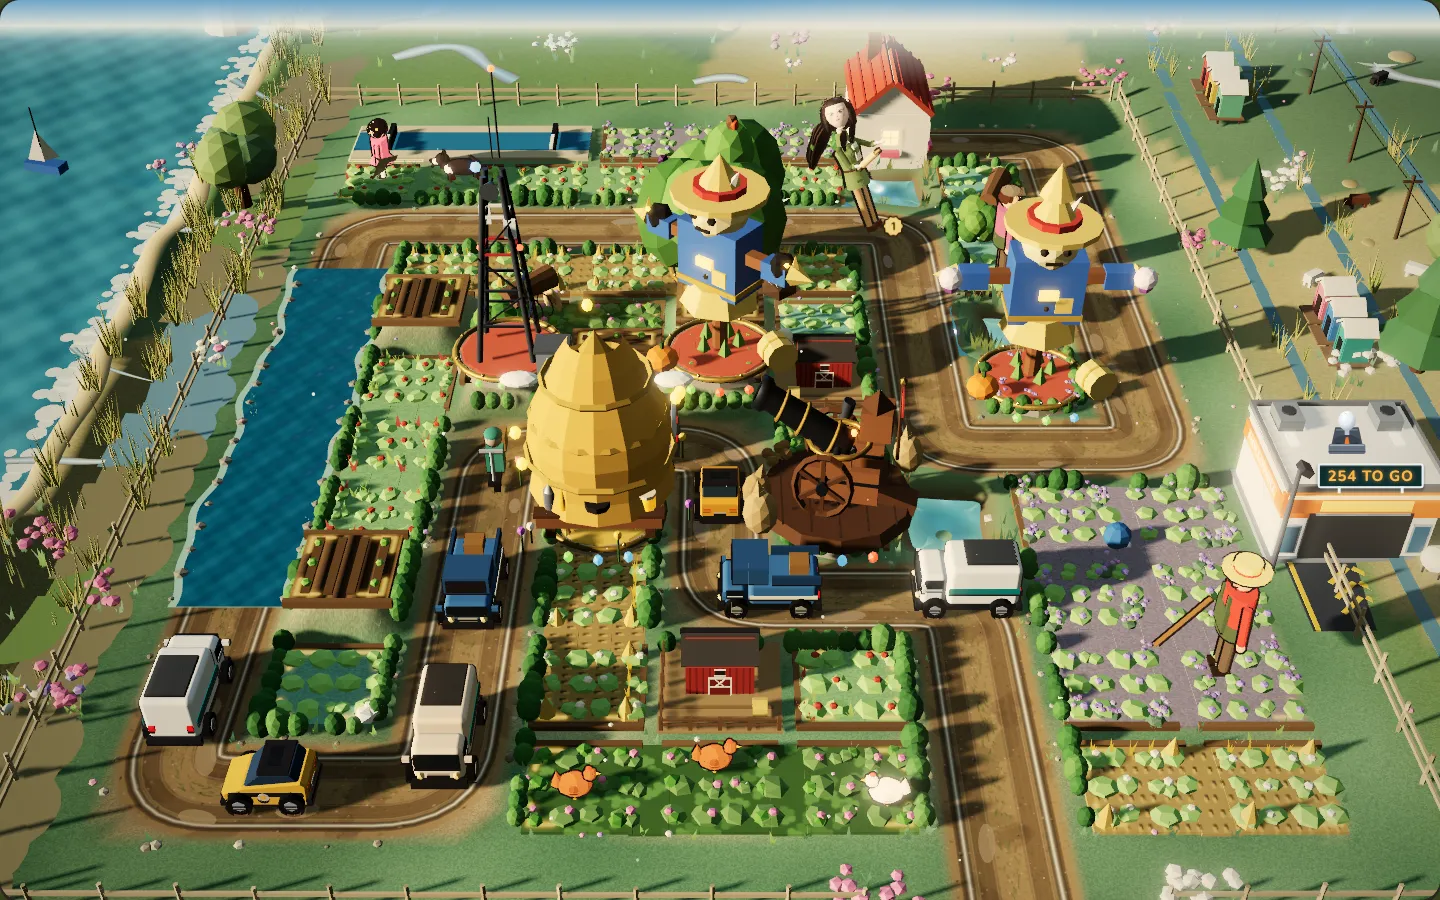
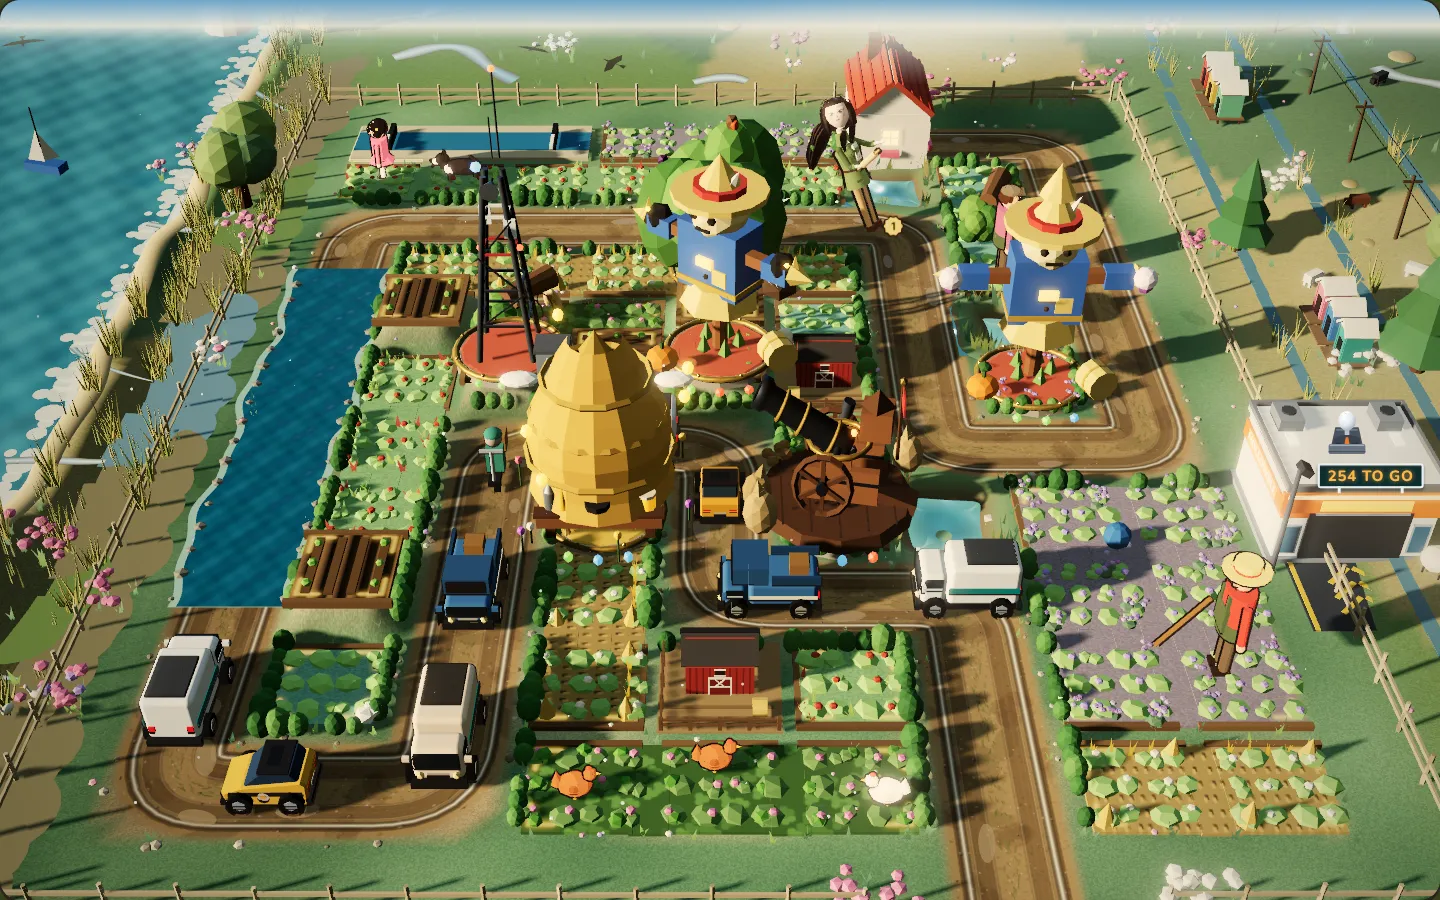
Hedgerow 2D (plan item 621 slice 4): the fleet's lacquer from above too: a pale ridge down a van's roof, the sides falling darker
Claude-Session: https://claude.ai/code/session_01SimvMRr3pxyZPGsavn32QT

diff --git a/games/hedgerow/src/sprites.ts b/games/hedgerow/src/sprites.ts
@@ -1645,6 +1645,27 @@ function vehicleTop(ctx: C, x: number, y: number, s: number, o: VehicleOpts): vo
       ctx.fill();
     }
   }
+  // Plan item 621: the lacquered roof from above: a pale ridge down the middle, the sides falling darker (symmetric,
+  // so it reads the same up or down the lane).
+  {
+    const bl = L * (cabFront ? 0.74 : 1);
+    ctx.save();
+    ctx.beginPath();
+    ctx.roundRect(x0, y0, bl, W, s * 0.06);
+    ctx.clip();
+    const g = ctx.createLinearGradient(0, y0, 0, y0 + W);
+    g.addColorStop(0, "rgba(0,0,0,0.16)");
+    g.addColorStop(0.32, "rgba(255,255,255,0.08)");
+    g.addColorStop(0.5, "rgba(255,255,255,0.3)");
+    g.addColorStop(0.68, "rgba(255,255,255,0.08)");
+    g.addColorStop(1, "rgba(0,0,0,0.16)");
+    ctx.fillStyle = g;
+    ctx.fillRect(x0, y0, bl, W);
+    ctx.restore();
+    ctx.beginPath();
+    ctx.roundRect(x0, y0, bl, W, s * 0.06);
+    ctx.stroke();
+  }
   if (o.stripe) {
     ctx.fillStyle = o.stripe;
     for (const side of [-1, 1]) ctx.fillRect(x0 + s * 0.03, y + side * W * 0.36 - W * 0.06, L * (cabFront ? 0.68 : 0.94), W * 0.12);
